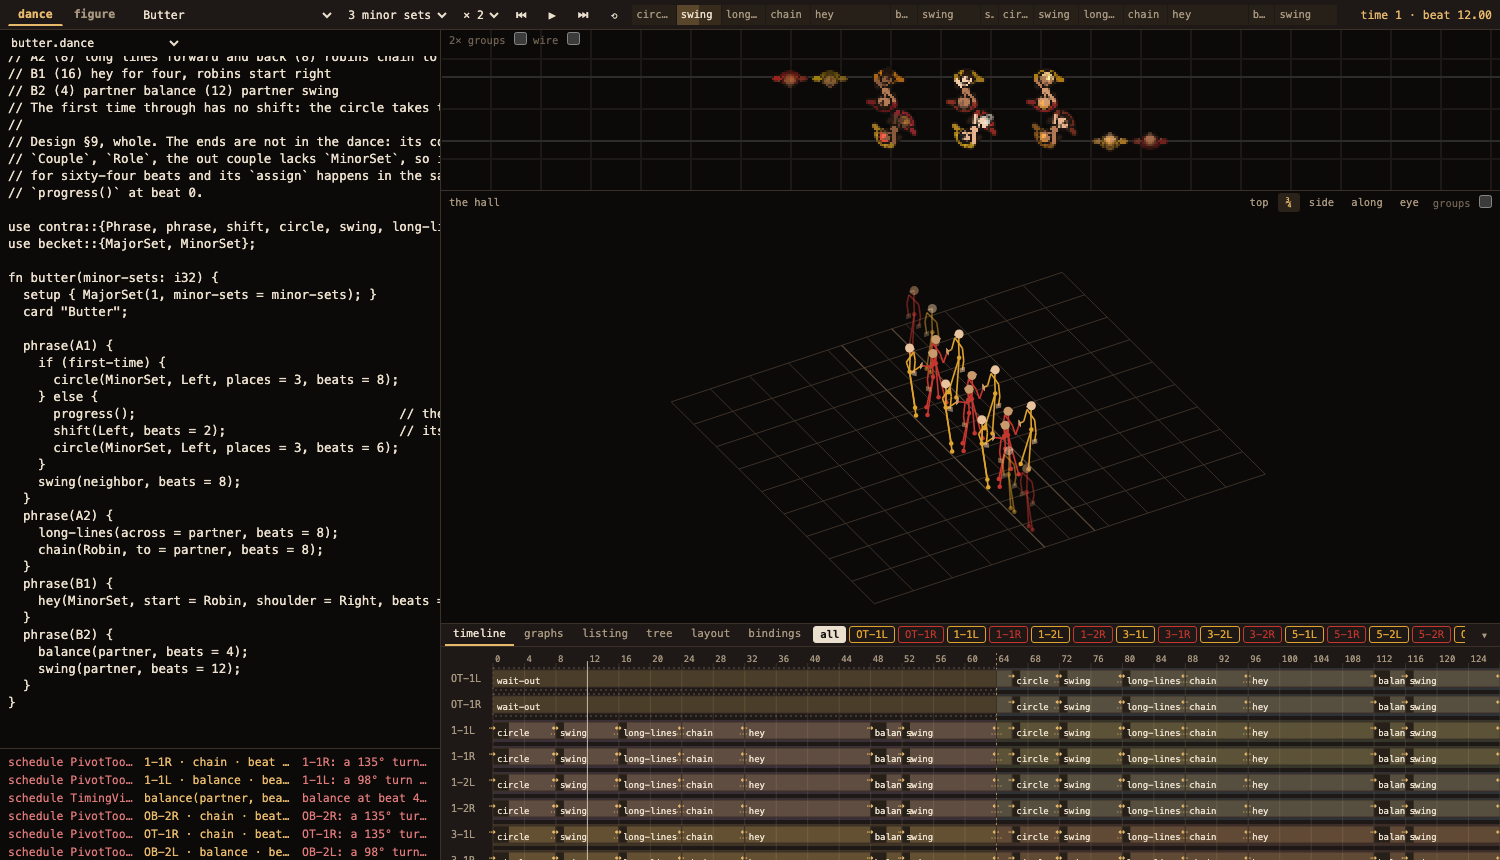
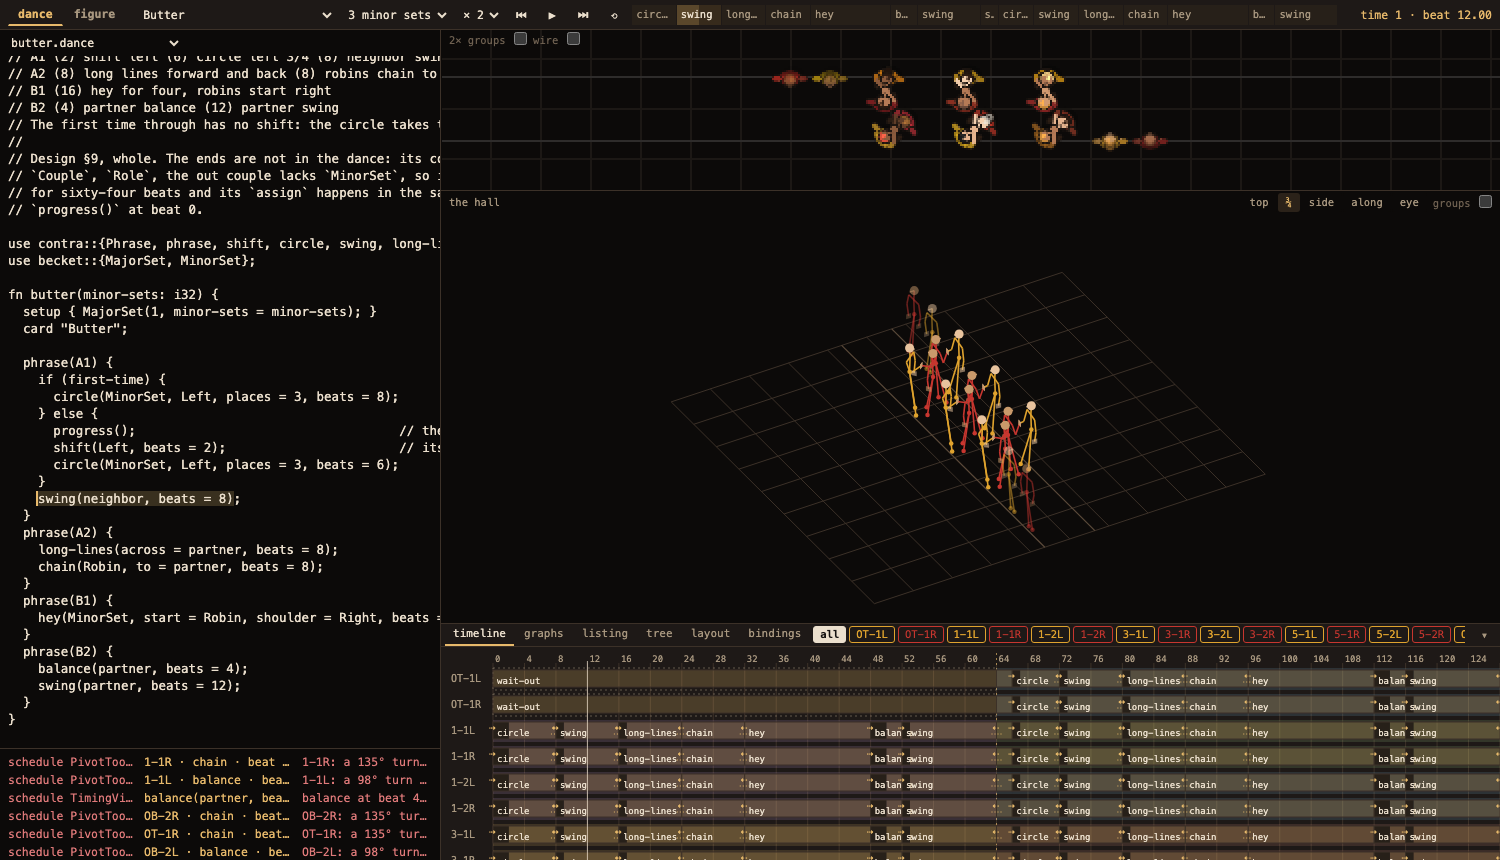
feat(kinetics): light the running call under the text; the instrument's shots
A textarea shows its selection only while it has the caret, so the running
call was invisible the moment the reader clicked anywhere else. The text is
now painted once more on a layer under the textarea, the call's span marked,
and the textarea's own ink is transparent over it. Two screenshots at 2× for
the pull request: the whole hall at beat 12, and set 2 at beat 41.

Plan: contra/2026-09-18-1324-m9-debugger-dance-mode

Changed region(s): [[0.0, 0.0605, 0.3067, 0.8163]]

diff --git a/packages/kinetics/debugger/panes/source.ts b/packages/kinetics/debugger/panes/source.ts
@@ -5,8 +5,10 @@ import { el, paneShell, type Pane, type View } from "../view.js";
  * The `.dance` text, editable, with a picker over **every file the dance
  * reads** — the dance's own module and the ones it `use`s, as the playground's
  * source pane has it. The call the bar is inside is lit in the file it was
- * written in. What it bound and how its figure reads are the deck's
- * `bindings` tab (M9): the text is the thing beside the picture.
+ * written in — painted on a layer under the text, since a textarea shows its
+ * selection only while it has the caret. What it bound and how its figure
+ * reads are the deck's `bindings` tab (M9): the text is the thing beside the
+ * picture.
  *
  * Typing re-runs the whole stack after 150 ms of quiet. The textarea is never
  * written back to while it has the caret, so an edit is not fought over by its
@@ -16,9 +18,16 @@ export function sourcePane(onEdit: (file: string, text: string) => void): Pane {
   const { section, head, body } = paneShell("source");
   const files = el("select", "pick");
   head.append(files);
+  const code = el("div", "code");
+  const lit = el("pre", "source-lit");
   const text = el("textarea", "source-text");
   text.spellcheck = false;
-  body.append(text);
+  code.append(lit, text);
+  body.append(code);
+  text.addEventListener("scroll", () => {
+    lit.scrollTop = text.scrollTop;
+    lit.scrollLeft = text.scrollLeft;
+  });
 
   let timer = 0;
   text.addEventListener("input", () => {
@@ -52,17 +61,30 @@ export function sourcePane(onEdit: (file: string, text: string) => void): Pane {
   const textOf = (name: string): string =>
     view?.run.sources.find((s) => s.name === name)?.text ?? "";
 
+  /** The text once more on the layer under the textarea, the call's span marked. */
+  const paint = (body: string, span?: { start: number; end: number }): void => {
+    lit.replaceChildren();
+    if (span === undefined) {
+      lit.textContent = body;
+    } else {
+      const mark = el("mark", "call", body.slice(span.start, span.end));
+      lit.append(body.slice(0, span.start), mark, body.slice(span.end));
+    }
+    lit.scrollTop = text.scrollTop;
+    lit.scrollLeft = text.scrollLeft;
+  };
+
   const show = (name: string, span?: { start: number; end: number }): void => {
-    if (document.activeElement === text) return;
     if (files.value !== name) files.value = name;
     const body = textOf(name);
-    if (text.value !== body) text.value = body;
-    if (span === undefined) return;
-    // Light the call, and scroll it into view without stealing the caret.
-    text.setSelectionRange(span.start, span.end);
+    if (document.activeElement !== text && text.value !== body) text.value = body;
+    paint(text.value, text.value === body ? span : undefined);
+    if (span === undefined || document.activeElement === text) return;
+    // Scroll the call into view without stealing the caret.
     const before = body.slice(0, span.start).split("\n").length - 1;
     const lines = Math.max(body.split("\n").length, 1);
     text.scrollTop = Math.max(0, (before / lines) * text.scrollHeight - text.clientHeight / 2);
+    lit.scrollTop = text.scrollTop;
   };
 
   const draw = (beat: number): void => {

diff --git a/packages/kinetics/debugger/style.css b/packages/kinetics/debugger/style.css
@@ -240,19 +240,45 @@ section[data-pane="source"] > .body {
   display: flex;
   padding: 0;
 }
-.source-text {
+.code {
+  position: relative;
   flex: 1;
   min-height: 0;
-  resize: none;
-  background: var(--floor);
-  color: var(--ink);
-  border: 0;
-  outline: 0;
+  min-width: 0;
+}
+/* the text twice: the lit layer under, the textarea over it with its ink transparent */
+.source-lit,
+.source-text {
+  position: absolute;
+  inset: 0;
+  margin: 0;
   padding: 5px 8px 20px;
   font: inherit;
   line-height: 17px;
   tab-size: 2;
   white-space: pre;
+  overflow: auto;
+  border: 0;
+  background: transparent;
+}
+.source-lit {
+  color: var(--ink);
+  overflow: hidden;
+  pointer-events: none;
+}
+.source-lit .call {
+  background: #39301f;
+  color: inherit;
+  box-shadow: -2px 0 0 var(--accent);
+}
+.source-text {
+  resize: none;
+  color: transparent;
+  caret-color: var(--ink);
+  outline: 0;
+}
+.source-text::selection {
+  background: #e7b96b40;
 }
 section[data-pane="problems"] {
   flex: none;
